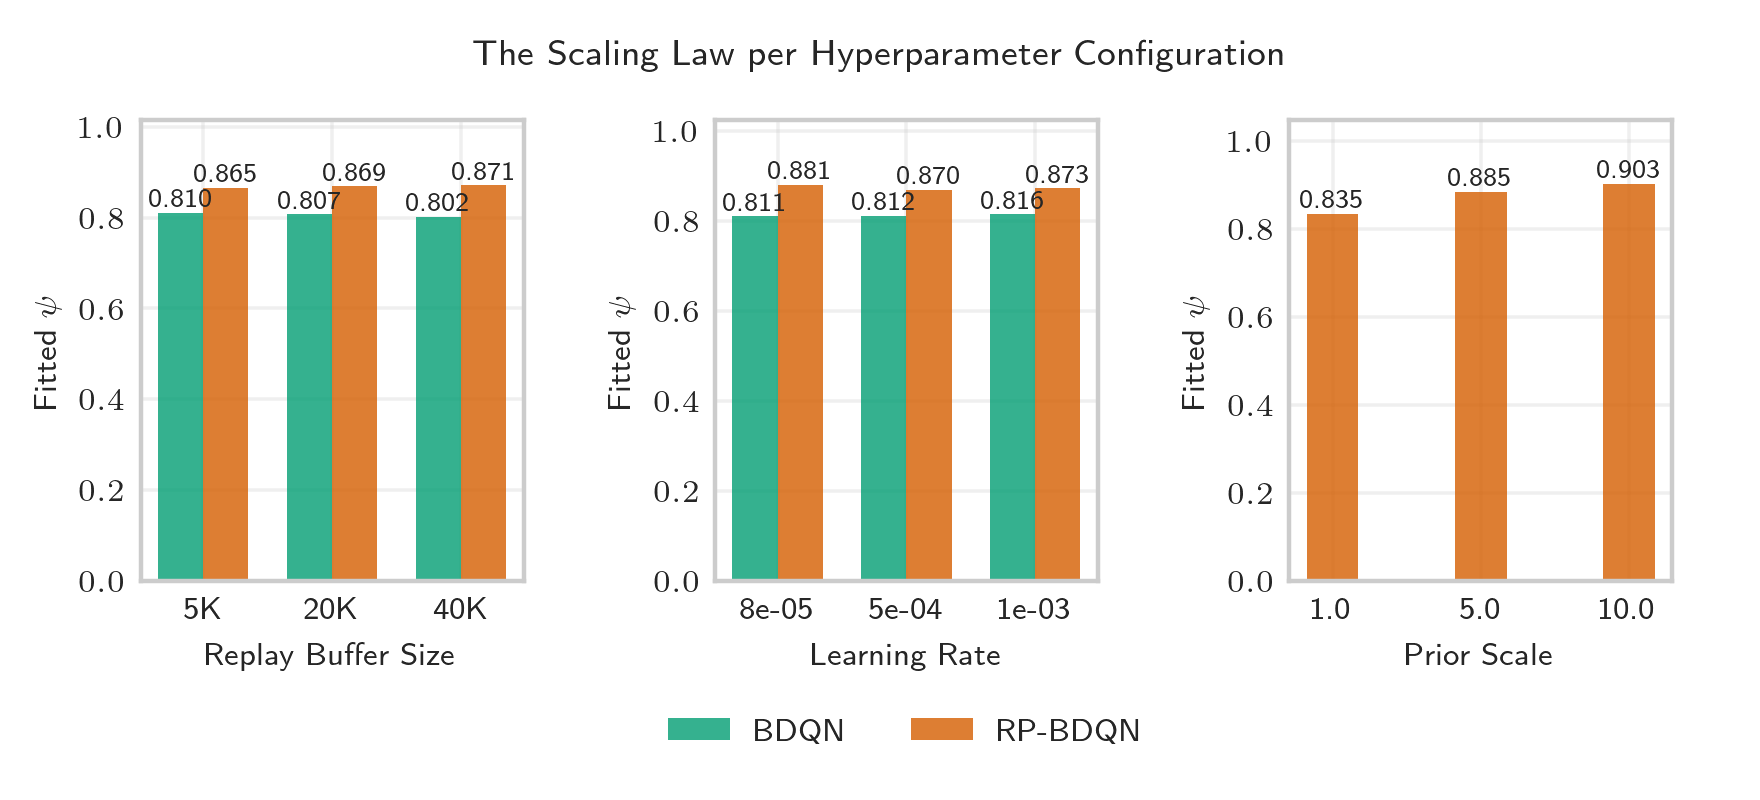
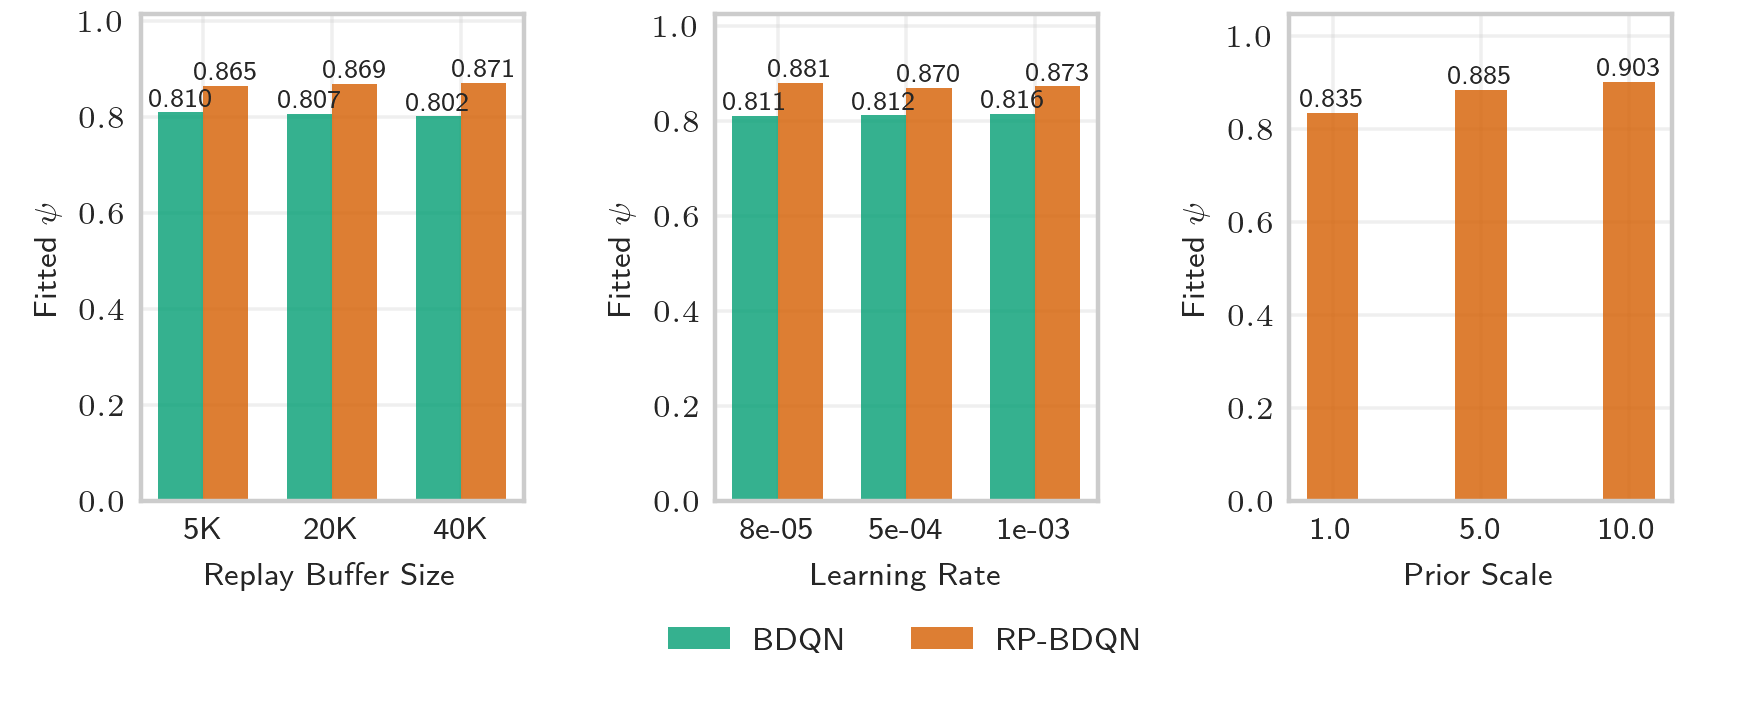
remove title

diff --git a/evaluate.py b/evaluate.py
@@ -454,13 +454,13 @@ def plot_hyperparameter_sweep():
         ("prior_scale", [1.0, 5.0, 10.0], ["bootrp"]),
     ]
 
-    fig = plt.figure(figsize=(5.5, 2.5))
+    fig = plt.figure(figsize=(5.5, 2.2))
     gs = gridspec.GridSpec(
         2,
         3,
         figure=fig,
         bottom=0.2,
-        top=0.85,
+        top=0.98,
         left=0.08,
         right=0.95,
         wspace=0.5,
@@ -550,11 +550,8 @@ def plot_hyperparameter_sweep():
         legend_ax = fig.add_subplot(gs[1, :])
         legend_ax.axis("off")
         legend_ax.legend(
-            handles, labels, loc="center", ncol=2, bbox_to_anchor=(0.5, -2.0), frameon=False
+            handles, labels, loc="center", ncol=2, bbox_to_anchor=(0.5, -1.6), frameon=False
         )
-
-    # Add overarching title
-    fig.suptitle("The Scaling Law per Hyperparameter Configuration", y=0.95)
 
     plot_save("hyperparameter_sweep")
 
